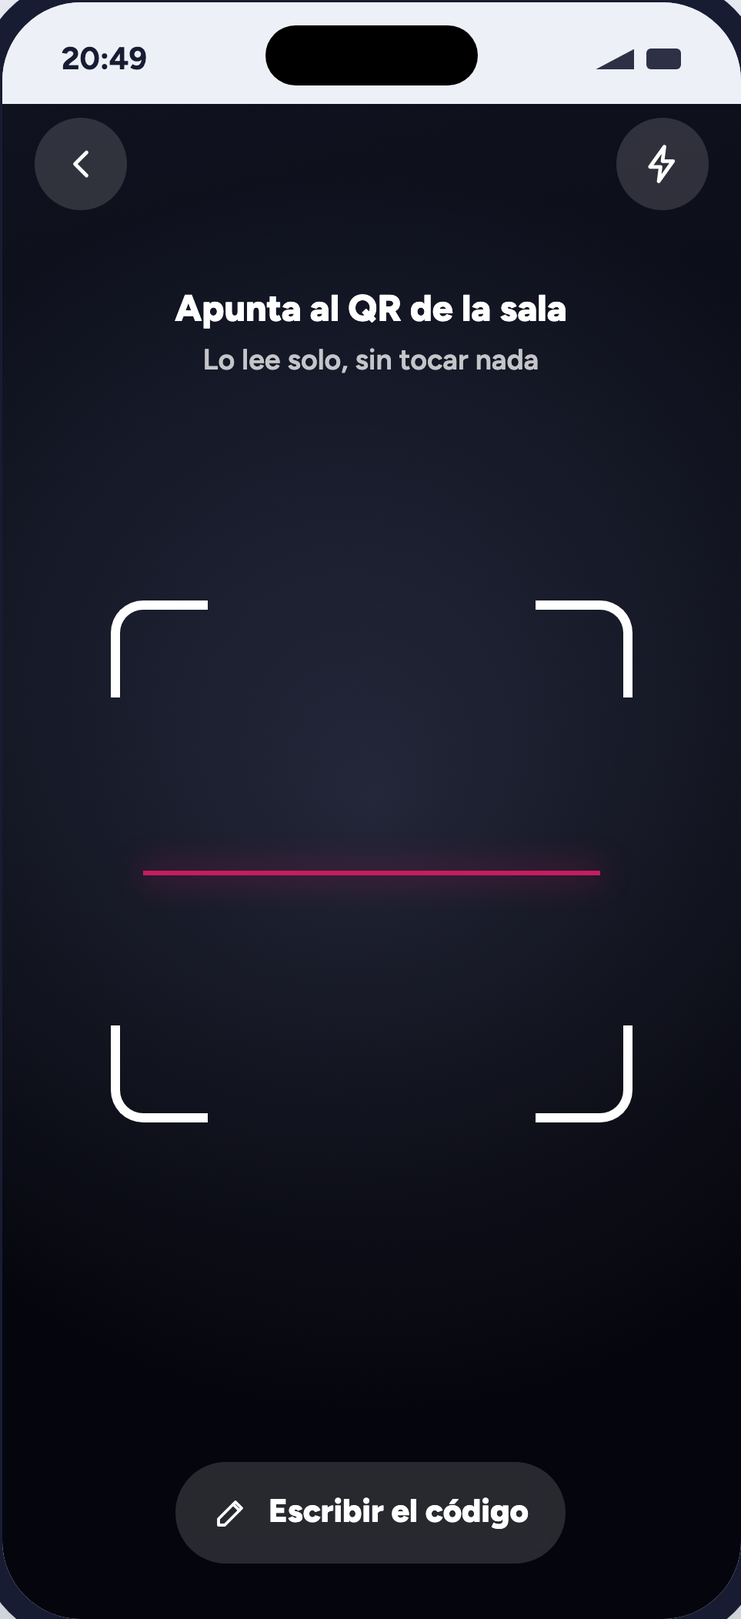
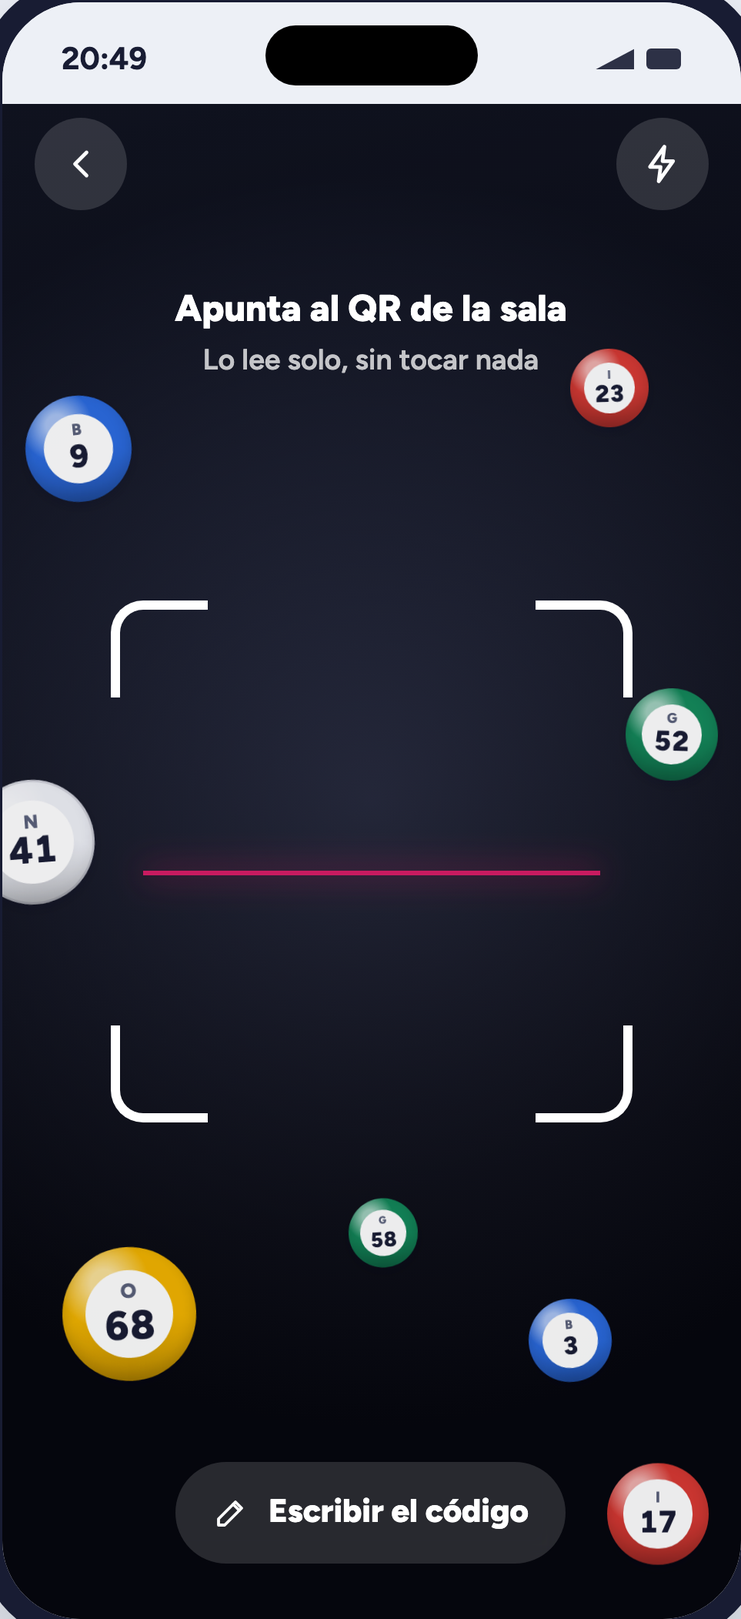
docs(diseno): premio editable con comisión y bolillas flotando al escanear
Nueva partida pasa a dos partes: visibilidad y, al desplazar, precio y premio con
la comisión de Bing Bing y lo que le queda a quien organiza. Las tarjetas de sala
muestran el premio. La pantalla de escanear lleva bolillas de bingo flotando.

diff --git a/tools/html_ref/bolilla-pantallas-nuevas.html b/tools/html_ref/bolilla-pantallas-nuevas.html
@@ -292,6 +292,7 @@ figcaption .fix{ font-size:12.5px; font-weight:700; color:var(--accent); }
 </defs></svg>
 <style>
 /* ---------- pantallas nuevas ---------- */
+.kvr{ display:flex; justify-content:space-between; align-items:center; font-size:13.5px; }
 .sala{ display:grid; gap:8px; background:var(--a-card); border-radius:16px; padding:12px 14px; }
 .sala .t{ display:flex; justify-content:space-between; align-items:flex-start; gap:8px; }
 .sala .t b{ font-weight:800; font-size:15px; display:block; }
@@ -316,6 +317,10 @@ figcaption .fix{ font-size:12.5px; font-weight:700; color:var(--accent); }
 .cam .frame i:nth-child(2){ right:0; top:0; border-left:0; border-bottom:0; border-radius:0 14px 0 0; }
 .cam .frame i:nth-child(3){ left:0; bottom:0; border-right:0; border-top:0; border-radius:0 0 0 14px; }
 .cam .frame i:nth-child(4){ right:0; bottom:0; border-left:0; border-top:0; border-radius:0 0 14px 0; }
+.fl{ position:absolute; z-index:1; opacity:.92; animation:flota 5.5s ease-in-out infinite alternate; }
+@keyframes flota{ from{ transform:translateY(0) rotate(-8deg); } to{ transform:translateY(-16px) rotate(9deg); } }
+@media (prefers-reduced-motion:reduce){ .fl{ animation:none; } }
+.cam .frame, .cam .hint, .cam .tools, .cam .top2{ z-index:2; }
 .cam .scan{ position:absolute; left:14px; right:14px; top:52%; height:2px; background:var(--dauber); box-shadow:0 0 14px var(--dauber); }
 .cam .hint{ position:absolute; top:78px; left:0; right:0; text-align:center; font-weight:800; font-size:16px; }
 .cam .hint small{ display:block; font-size:12.5px; font-weight:600; opacity:.75; margin-top:2px; }
@@ -390,18 +395,19 @@ figcaption .fix{ font-size:12.5px; font-weight:700; color:var(--accent); }
 <div><b>Compartir</b><small>QR, enlace y código</small><span class="who-o">ORGANIZADOR</span></div>
 </div>
 <div class="group-h"><span class="role j">PLAY</span><h2>Bing Bing Play</h2><p>Jugador · tema claro</p></div>
-<div class="screens"><figure id=jug-07-salas data-screen=jug-07-salas><div class="phone"><div class="app"><div class="sb"><span>20:48</span><span class="dots"><i></i><i></i></span></div><div class="body" style="gap:10px"><div class="top"><div><h2>Salas abiertas</h2><small>Entra a una y elige tu fila</small></div><span class="chip sp" style="margin-left:auto"><svg class="ic xs"><use href="#i-user"/></svg>Iniciar sesión</span></div><div class="finder"><div class="field"><svg class="ic "><use href="#i-pen"/></svg>Escribir el código</div><span class="qrb"><svg class="ic "><use href="#i-qr"/></svg></span></div><span class="lbl">ABIERTAS AHORA</span><div class="sala "><div class="t"><div><b>Bingo de los sábados</b><small>Organiza Carmen</small></div><span class="chip ok">Quedan 16</span></div><div class="tr"><i style="width:20%"></i></div><div class="m"><span>4 de 20 filas</span><span><b>5</b> créditos por fila</span></div></div><div class="sala "><div class="t"><div><b>Cumpleaños de Pilar</b><small>Organiza Renzo</small></div><span class="chip ok">Quedan 9</span></div><div class="tr"><i style="width:55%"></i></div><div class="m"><span>11 de 20 filas</span><span><b>3</b> créditos por fila</span></div></div><div class="sala "><div class="t"><div><b>Bingo familiar</b><small>Organiza Don Luis</small></div><span class="chip ok">Queda 1</span></div><div class="tr"><i style="width:95%"></i></div><div class="m"><span>19 de 20 filas</span><span><b>10</b> créditos por fila</span></div></div><div class="sala off"><div class="t"><div><b>Bingo del club</b><small>Organiza Marta</small></div><span class="chip off">Llena</span></div><div class="tr"><i style="width:100%"></i></div><div class="m"><span>20 de 20 filas</span><span><b>5</b> créditos por fila</span></div></div></div></div></div><figcaption><code class=sid>jug-07-salas</code><h3>Salas abiertas (sin sesión)</h3><p>Cualquiera ve las salas públicas, aunque no haya iniciado sesión. Escribir el código o escanear el QR sigue estando arriba, para las privadas.</p><span class=fix>Nuevo: pantalla de inicio de Play</span></figcaption></figure>
-<figure id=jug-07b-salas-con-sesion data-screen=jug-07b-salas-con-sesion><div class="phone"><div class="app"><div class="sb"><span>20:52</span><span class="dots"><i></i><i></i></span></div><div class="body" style="gap:10px"><div class="top"><div><h2>Salas abiertas</h2><small>Hola, Lucía</small></div><span class="chip money sp" style="margin-left:auto"><svg class="ic xs"><use href="#i-wallet"/></svg>25 créditos</span></div><div class="finder"><div class="field"><svg class="ic "><use href="#i-pen"/></svg>Escribir el código</div><span class="qrb"><svg class="ic "><use href="#i-qr"/></svg></span></div><span class="lbl">TUS SALAS</span><div class="sala mia"><div class="t"><div><b>Bingo de los sábados</b><small>Organiza Carmen</small></div><span class="chip me">Tu fila 5</span></div><div class="tr"><i style="width:100%"></i></div><div class="m"><span>20 de 20 filas</span><span><b>5</b> créditos por fila</span></div></div><span class="lbl">ABIERTAS AHORA</span><div class="sala "><div class="t"><div><b>Cumpleaños de Pilar</b><small>Organiza Renzo</small></div><span class="chip ok">Quedan 9</span></div><div class="tr"><i style="width:55%"></i></div><div class="m"><span>11 de 20 filas</span><span><b>3</b> créditos por fila</span></div></div><div class="sala "><div class="t"><div><b>Bingo familiar</b><small>Organiza Don Luis</small></div><span class="chip ok">Queda 1</span></div><div class="tr"><i style="width:95%"></i></div><div class="m"><span>19 de 20 filas</span><span><b>10</b> créditos por fila</span></div></div></div></div></div><figcaption><code class=sid>jug-07b-salas-con-sesion</code><h3>Salas abiertas (con sesión)</h3><p>Con sesión se ve el saldo arriba y, si ya reservaste fila en una sala, aparece marcada para volver a entrar.</p></figcaption></figure>
-<figure id=jug-08-escanear data-screen=jug-08-escanear><div class="phone"><div class="app"><div class="sb"><span>20:49</span><span class="dots"><i></i><i></i></span></div><div class="cam"><div class="top2"><span class="icb"><svg class="ic "><use href="#i-left"/></svg></span><span class="icb"><svg class="ic "><use href="#i-flash"/></svg></span></div><div class="hint">Apunta al QR de la sala<small>Lo lee solo, sin tocar nada</small></div><div class="frame"><i></i><i></i><i></i><i></i><span class="scan"></span></div><div class="tools"><span class="rb"><svg class="ic s"><use href="#i-pen"/></svg>Escribir el código</span></div></div></div></div><figcaption><code class=sid>jug-08-escanear</code><h3>Escanear el QR</h3><p>Cámara con marco, linterna y la salida de siempre: escribir el código. Al leer un QR válido pasa directo a la sala.</p></figcaption></figure>
+<div class="screens"><figure id=jug-07-salas data-screen=jug-07-salas><div class="phone"><div class="app"><div class="sb"><span>20:48</span><span class="dots"><i></i><i></i></span></div><div class="body" style="gap:10px"><div class="top"><div><h2>Salas abiertas</h2><small>Entra a una y elige tu fila</small></div><span class="chip sp" style="margin-left:auto"><svg class="ic xs"><use href="#i-user"/></svg>Iniciar sesión</span></div><div class="finder"><div class="field"><svg class="ic "><use href="#i-pen"/></svg>Escribir el código</div><span class="qrb"><svg class="ic "><use href="#i-qr"/></svg></span></div><span class="lbl">ABIERTAS AHORA</span><div class="sala "><div class="t"><div><b>Bingo de los sábados</b><small>Organiza Carmen</small></div><span class="chip ok">Quedan 16</span></div><div class="tr"><i style="width:20%"></i></div><div class="m"><span>4 de 20 filas</span><span><b>5</b> por fila · premio <b>80</b></span></div></div><div class="sala "><div class="t"><div><b>Cumpleaños de Pilar</b><small>Organiza Renzo</small></div><span class="chip ok">Quedan 9</span></div><div class="tr"><i style="width:55%"></i></div><div class="m"><span>11 de 20 filas</span><span><b>3</b> por fila · premio <b>50</b></span></div></div><div class="sala "><div class="t"><div><b>Bingo familiar</b><small>Organiza Don Luis</small></div><span class="chip ok">Queda 1</span></div><div class="tr"><i style="width:95%"></i></div><div class="m"><span>19 de 20 filas</span><span><b>10</b> por fila · premio <b>160</b></span></div></div><div class="sala off"><div class="t"><div><b>Bingo del club</b><small>Organiza Marta</small></div><span class="chip off">Llena</span></div><div class="tr"><i style="width:100%"></i></div><div class="m"><span>20 de 20 filas</span><span><b>5</b> por fila · premio <b>80</b></span></div></div></div></div></div><figcaption><code class=sid>jug-07-salas</code><h3>Salas abiertas (sin sesión)</h3><p>Cualquiera ve las salas públicas, aunque no haya iniciado sesión. Escribir el código o escanear el QR sigue estando arriba, para las privadas.</p><span class=fix>Nuevo: pantalla de inicio de Play</span></figcaption></figure>
+<figure id=jug-07b-salas-con-sesion data-screen=jug-07b-salas-con-sesion><div class="phone"><div class="app"><div class="sb"><span>20:52</span><span class="dots"><i></i><i></i></span></div><div class="body" style="gap:10px"><div class="top"><div><h2>Salas abiertas</h2><small>Hola, Lucía</small></div><span class="chip money sp" style="margin-left:auto"><svg class="ic xs"><use href="#i-wallet"/></svg>25 créditos</span></div><div class="finder"><div class="field"><svg class="ic "><use href="#i-pen"/></svg>Escribir el código</div><span class="qrb"><svg class="ic "><use href="#i-qr"/></svg></span></div><span class="lbl">TUS SALAS</span><div class="sala mia"><div class="t"><div><b>Bingo de los sábados</b><small>Organiza Carmen</small></div><span class="chip me">Tu fila 5</span></div><div class="tr"><i style="width:100%"></i></div><div class="m"><span>20 de 20 filas</span><span><b>5</b> por fila · premio <b>80</b></span></div></div><span class="lbl">ABIERTAS AHORA</span><div class="sala "><div class="t"><div><b>Cumpleaños de Pilar</b><small>Organiza Renzo</small></div><span class="chip ok">Quedan 9</span></div><div class="tr"><i style="width:55%"></i></div><div class="m"><span>11 de 20 filas</span><span><b>3</b> por fila · premio <b>50</b></span></div></div><div class="sala "><div class="t"><div><b>Bingo familiar</b><small>Organiza Don Luis</small></div><span class="chip ok">Queda 1</span></div><div class="tr"><i style="width:95%"></i></div><div class="m"><span>19 de 20 filas</span><span><b>10</b> por fila · premio <b>160</b></span></div></div></div></div></div><figcaption><code class=sid>jug-07b-salas-con-sesion</code><h3>Salas abiertas (con sesión)</h3><p>Con sesión se ve el saldo arriba y, si ya reservaste fila en una sala, aparece marcada para volver a entrar.</p></figcaption></figure>
+<figure id=jug-08-escanear data-screen=jug-08-escanear><div class="phone"><div class="app"><div class="sb"><span>20:49</span><span class="dots"><i></i><i></i></span></div><div class="cam"><span class="ball k-b fl" style="--s:46px;left:10px;top:128px;animation-delay:-0.0s" role="img" aria-label="B-9"><span class="face"><small>B</small>9</span></span><span class="ball k-i fl" style="--s:34px;left:246px;top:112px;animation-delay:-1.1s" role="img" aria-label="I-23"><span class="face"><small>I</small>23</span></span><span class="ball k-n fl" style="--s:54px;left:-14px;top:296px;animation-delay:-0.5s" role="img" aria-label="N-41"><span class="face"><small>N</small>41</span></span><span class="ball k-g fl" style="--s:40px;left:270px;top:262px;animation-delay:-1.7s" role="img" aria-label="G-52"><span class="face"><small>G</small>52</span></span><span class="ball k-o fl" style="--s:58px;left:26px;top:500px;animation-delay:-0.9s" role="img" aria-label="O-68"><span class="face"><small>O</small>68</span></span><span class="ball k-b fl" style="--s:36px;left:228px;top:520px;animation-delay:-0.3s" role="img" aria-label="B-3"><span class="face"><small>B</small>3</span></span><span class="ball k-i fl" style="--s:44px;left:262px;top:596px;animation-delay:-1.4s" role="img" aria-label="I-17"><span class="face"><small>I</small>17</span></span><span class="ball k-g fl" style="--s:30px;left:150px;top:478px;animation-delay:-0.7s" role="img" aria-label="G-58"><span class="face"><small>G</small>58</span></span><div class="top2"><span class="icb"><svg class="ic "><use href="#i-left"/></svg></span><span class="icb"><svg class="ic "><use href="#i-flash"/></svg></span></div><div class="hint">Apunta al QR de la sala<small>Lo lee solo, sin tocar nada</small></div><div class="frame"><i></i><i></i><i></i><i></i><span class="scan"></span></div><div class="tools"><span class="rb"><svg class="ic s"><use href="#i-pen"/></svg>Escribir el código</span></div></div></div></div><figcaption><code class=sid>jug-08-escanear</code><h3>Escanear el QR</h3><p>Cámara con marco, linterna y la salida de siempre: escribir el código. Al leer un QR válido pasa directo a la sala.</p></figcaption></figure>
 <figure id=jug-08b-camara-denegada data-screen=jug-08b-camara-denegada><div class="phone"><div class="app"><div class="sb"><span>20:49</span><span class="dots"><i></i><i></i></span></div><div class="body" style="gap:12px"><div class="top"><span class=icb><svg class="ic "><use href="#i-left"/></svg></span><div><h2>Escanear el QR</h2><small></small></div></div><div class="empty"><span class="big"><svg class="ic l"><use href="#i-camera"/></svg></span><h2>Necesitamos la cámara</h2><p>Solo la usamos para leer el QR de la sala. No guardamos fotos ni video.</p></div></div><div class="foot"><div class="btn ink">Abrir ajustes</div><div class="btn line"><svg class="ic "><use href="#i-pen"/></svg>Escribir el código</div></div></div></div><figcaption><code class=sid>jug-08b-camara-denegada</code><h3>Escanear: sin permiso de cámara</h3><p>Si la persona negó el permiso, se explica por qué se pide y se ofrece abrir Ajustes o escribir el código.</p></figcaption></figure>
 <figure id=jug-09-iniciar-sesion data-screen=jug-09-iniciar-sesion><div class="phone"><div class="app"><div class="sb"><span>20:50</span><span class="dots"><i></i><i></i></span></div><div class="body" style="gap:12px"><div class="top"><span class=icb><svg class="ic "><use href="#i-left"/></svg></span><div><h2>Elige tu fila</h2><small>Bingo de los sábados · puedes elegir 1</small></div></div><div class="picks"><div class="pick taken"><span class="idx">1</span><span class="pc">4</span><span class="pc">17</span><span class="pc">32</span><span class="pc">56</span><span class="pc">72</span><span class="st"><svg class="ic xs"><use href="#i-lock"/></svg> Jugador 1</span></div><div class="pick taken"><span class="idx">2</span><span class="pc">13</span><span class="pc">22</span><span class="pc">31</span><span class="pc">50</span><span class="pc">65</span><span class="st"><svg class="ic xs"><use href="#i-lock"/></svg> Jugador 2</span></div><div class="pick taken"><span class="idx">3</span><span class="pc">3</span><span class="pc">28</span><span class="pc">42</span><span class="pc">52</span><span class="pc">65</span><span class="st"><svg class="ic xs"><use href="#i-lock"/></svg> Jugador 3</span></div><div class="pick taken"><span class="idx">4</span><span class="pc">2</span><span class="pc">30</span><span class="pc">33</span><span class="pc">47</span><span class="pc">62</span><span class="st"><svg class="ic xs"><use href="#i-lock"/></svg> Jugador 4</span></div><div class="pick sel"><span class="idx">5</span><span class="pc">3</span><span class="pc">20</span><span class="pc">43</span><span class="pc">59</span><span class="pc">69</span><span class="st">Elegida</span></div><div class="pick "><span class="idx">6</span><span class="pc">4</span><span class="pc">25</span><span class="pc">37</span><span class="pc">54</span><span class="pc">68</span><span class="st">Libre</span></div></div></div><div class="foot"><div class="btn ink">Seguir con la fila 5</div><small>Las filas con candado ya tienen dueño</small></div><div class="modal"><div class="sheet left"><span class="grab"></span><h3>Inicia sesión para jugar</h3><p>Puedes mirar la sala sin cuenta. Para elegir una fila necesitas iniciar sesión y tener saldo en tu billetera.</p><div class="acts"><div class="btn ink"><svg class="ic "><use href="#i-mail"/></svg>Continuar con Google</div><div class="btn line"><svg class="ic "><use href="#i-phone"/></svg>Continuar con celular</div></div><small style="text-align:center;color:var(--a-muted);font-weight:700;font-size:13px">Ahora no</small></div></div></div></div><figcaption><code class=sid>jug-09-iniciar-sesion</code><h3>Elegir fila sin sesión</h3><p>Mirar la sala es libre. Al tocar "Seguir con la fila", si no hay sesión sube esta hoja: sin cuenta con saldo no se puede jugar.</p><span class=fix>Nuevo: hoja de inicio de sesión</span></figcaption></figure>
-<figure id=jug-10-sin-saldo data-screen=jug-10-sin-saldo><div class="phone"><div class="app"><div class="sb"><span>20:51</span><span class="dots"><i></i><i></i></span></div><div class="body" style="gap:10px"><div class="top"><span class=icb><svg class="ic "><use href="#i-left"/></svg></span><div><h2>Elige tu fila</h2><small>Bingo de los sábados · 5 créditos por fila</small></div></div><div class="warn"><svg class="ic "><use href="#i-wallet"/></svg><span><b>Tu saldo es 0 créditos.</b> Cada fila cuesta 5. Recarga para poder elegir.</span></div><div class="picks" style="opacity:.55"><div class="pick "><span class="idx">5</span><span class="pc">3</span><span class="pc">20</span><span class="pc">43</span><span class="pc">59</span><span class="pc">69</span><span class="st">Libre</span></div><div class="pick "><span class="idx">6</span><span class="pc">4</span><span class="pc">25</span><span class="pc">37</span><span class="pc">54</span><span class="pc">68</span><span class="st">Libre</span></div><div class="pick "><span class="idx">7</span><span class="pc">8</span><span class="pc">20</span><span class="pc">43</span><span class="pc">60</span><span class="pc">69</span><span class="st">Libre</span></div><div class="pick "><span class="idx">8</span><span class="pc">9</span><span class="pc">18</span><span class="pc">45</span><span class="pc">49</span><span class="pc">64</span><span class="st">Libre</span></div><div class="pick "><span class="idx">9</span><span class="pc">14</span><span class="pc">27</span><span class="pc">40</span><span class="pc">47</span><span class="pc">67</span><span class="st">Libre</span></div></div></div><div class="foot"><div class="btn dau"><svg class="ic "><use href="#i-wallet"/></svg>Recargar créditos</div><small>Con saldo podrás elegir tu fila</small></div></div></div><figcaption><code class=sid>jug-10-sin-saldo</code><h3>Elegir fila sin saldo</h3><p>Con sesión pero sin saldo suficiente las filas se ven, pero no se pueden elegir. La comprobación se repite en el servidor.</p><span class=fix>Nuevo: bloqueo por saldo</span></figcaption></figure>
+<figure id=jug-10-sin-saldo data-screen=jug-10-sin-saldo><div class="phone"><div class="app"><div class="sb"><span>20:51</span><span class="dots"><i></i><i></i></span></div><div class="body" style="gap:10px"><div class="top"><span class=icb><svg class="ic "><use href="#i-left"/></svg></span><div><h2>Elige tu fila</h2><small>Bingo de los sábados · 5 por fila · premio 80</small></div></div><div class="warn"><svg class="ic "><use href="#i-wallet"/></svg><span><b>Tu saldo es 0 créditos.</b> Cada fila cuesta 5 créditos. Recarga para poder elegir.</span></div><div class="picks" style="opacity:.55"><div class="pick "><span class="idx">5</span><span class="pc">3</span><span class="pc">20</span><span class="pc">43</span><span class="pc">59</span><span class="pc">69</span><span class="st">Libre</span></div><div class="pick "><span class="idx">6</span><span class="pc">4</span><span class="pc">25</span><span class="pc">37</span><span class="pc">54</span><span class="pc">68</span><span class="st">Libre</span></div><div class="pick "><span class="idx">7</span><span class="pc">8</span><span class="pc">20</span><span class="pc">43</span><span class="pc">60</span><span class="pc">69</span><span class="st">Libre</span></div><div class="pick "><span class="idx">8</span><span class="pc">9</span><span class="pc">18</span><span class="pc">45</span><span class="pc">49</span><span class="pc">64</span><span class="st">Libre</span></div><div class="pick "><span class="idx">9</span><span class="pc">14</span><span class="pc">27</span><span class="pc">40</span><span class="pc">47</span><span class="pc">67</span><span class="st">Libre</span></div></div></div><div class="foot"><div class="btn dau"><svg class="ic "><use href="#i-wallet"/></svg>Recargar créditos</div><small>Con saldo podrás elegir tu fila</small></div></div></div><figcaption><code class=sid>jug-10-sin-saldo</code><h3>Elegir fila sin saldo</h3><p>Con sesión pero sin saldo suficiente las filas se ven, pero no se pueden elegir. La comprobación se repite en el servidor.</p><span class=fix>Nuevo: bloqueo por saldo</span></figcaption></figure>
 <figure id=jug-11-billetera data-screen=jug-11-billetera><div class="phone"><div class="app"><div class="sb"><span>20:53</span><span class="dots"><i></i><i></i></span></div><div class="body" style="gap:12px"><div class="top"><span class=icb><svg class="ic "><use href="#i-left"/></svg></span><div><h2>Mi billetera</h2><small>Créditos de prueba</small></div></div><div class="wallet"><span class="lbl" style="padding:0">SALDO</span><div class="v"><b>25</b><span>créditos</span></div><span class="chip money" style="justify-self:start">De prueba · sin valor en dinero</span></div><div class="btn dau"><svg class="ic "><use href="#i-plus"/></svg>Recargar</div><span class="lbl">MOVIMIENTOS</span><div class="plist" style="padding:2px 12px"><div class="mov"><span class="mi"><svg class="ic s"><use href="#i-plus"/></svg></span><div><b>Recarga</b><small>Hoy 20:45</small></div><span class="amt pos">+30</span></div><div class="mov"><span class="mi"><svg class="ic s"><use href="#i-grid"/></svg></span><div><b>Fila 5 · Bingo de los sábados</b><small>Hoy 20:46</small></div><span class="amt">−5</span></div><div class="mov"><span class="mi"><svg class="ic s"><use href="#i-trophy"/></svg></span><div><b>Premio · Cumpleaños de Pilar</b><small>19 set</small></div><span class="amt pos">+60</span></div><div class="mov"><span class="mi"><svg class="ic s"><use href="#i-grid"/></svg></span><div><b>Fila 12 · Cumpleaños de Pilar</b><small>19 set</small></div><span class="amt">−3</span></div></div></div></div></div><figcaption><code class=sid>jug-11-billetera</code><h3>Mi billetera</h3><p>Saldo en créditos de prueba (sin valor en dinero, no se retiran) y el historial de movimientos.</p><span class=fix>Nuevo: billetera</span></figcaption></figure>
 <figure id=jug-12-recargar data-screen=jug-12-recargar><div class="phone"><div class="app"><div class="sb"><span>20:53</span><span class="dots"><i></i><i></i></span></div><div class="body" style="gap:12px"><div class="top"><span class=icb><svg class="ic "><use href="#i-left"/></svg></span><div><h2>Mi billetera</h2><small>Créditos de prueba</small></div></div><div class="wallet"><span class="lbl" style="padding:0">SALDO</span><div class="v"><b>25</b><span>créditos</span></div></div></div><div class="modal"><div class="sheet left"><span class="grab"></span><h3>Recargar créditos</h3><div class="amounts"><span>10</span><span class="on">20</span><span>50</span><span>100</span></div><p>Recibirás <b style="color:var(--a-ink)">20 créditos de prueba</b>. No tienen valor en dinero.</p><div class="btn dau">Agregar 20 créditos</div></div></div></div></div><figcaption><code class=sid>jug-12-recargar</code><h3>Recargar créditos</h3><p>Hoja de recarga con montos fijos. En esta etapa los créditos son de prueba y se agregan al instante, sin cobro.</p></figcaption></figure>
 <figure id=jug-13-cuenta data-screen=jug-13-cuenta><div class="phone"><div class="app"><div class="sb"><span>20:54</span><span class="dots"><i></i><i></i></span></div><div class="body" style="gap:10px"><div class="top"><span class=icb><svg class="ic "><use href="#i-left"/></svg></span><div><h2>Mi cuenta</h2><small></small></div></div><div class="who2"><span class="avatar">L</span><b>Lucía Torres</b><small>lucia@correo.com</small></div><div class="sec"><span class="h">INICIO DE SESIÓN</span><div class="kv"><svg class="ic s"><use href="#i-mail"/></svg><div>Google<small>lucia@correo.com</small></div><span class="chip ok"><svg class="ic xs"><use href="#i-check"/></svg>Vinculado</span></div><div class="kv"><svg class="ic s"><use href="#i-phone"/></svg><div>Celular<small>Para entrar con un código SMS</small></div><span class="chip">Agregar</span></div></div><div class="sec"><div class="kv"><svg class="ic s"><use href="#i-wallet"/></svg><div>Billetera<small>25 créditos de prueba</small></div><svg class="ic s"><use href="#i-right"/></svg></div></div><div class="btn line">Cerrar sesión</div><div class="danger">Eliminar mi cuenta</div></div></div></div><figcaption><code class=sid>jug-13-cuenta</code><h3>Mi cuenta</h3><p>Datos de la cuenta, métodos de inicio de sesión vinculados, acceso a la billetera y las acciones de cuenta (borrarla es obligatorio en las tiendas).</p><span class=fix>Nuevo: cuenta</span></figcaption></figure>
 </div>
 <div class="group-h"><span class="role o">HOST</span><h2>Bing Bing Host</h2><p>Organizador · tema oscuro</p></div>
-<div class="screens"><figure id=org-10-nueva-partida-v2 data-screen=org-10-nueva-partida-v2><div class="phone"><div class="app  dark"><div class="sb"><span>20:43</span><span class="dots"><i></i><i></i></span></div><div class="body" style="gap:9px"><div class="top"><span class=icb><svg class="ic "><use href="#i-left"/></svg></span><div><h2>Nueva partida</h2><small>Puedes cambiarlo antes de abrir la sala</small></div></div><div class="sec"><span class="h">NOMBRE</span><div class="field" style="color:var(--a-ink);font-weight:700">Bingo de los sábados</div></div><div class="sec"><span class="h">VISIBILIDAD</span><div class="seg"><span class="on">Pública</span><span>Privada</span></div><small style="font-size:12px;color:var(--a-muted);font-weight:600">Pública: la ve cualquiera en Play. Privada: solo con código, enlace o QR.</small></div><div class="sec"><span class="h">PRECIO Y PREMIO</span><div style="display:flex;justify-content:space-between;align-items:center"><span style="font-size:13.5px;font-weight:700">Precio por fila</span><span class="stepper"><i><svg class="ic s"><use href="#i-minus"/></svg></i><b>5</b><i><svg class="ic s"><use href="#i-plus"/></svg></i></span></div><div style="display:flex;justify-content:space-between;align-items:center;border-top:1px solid var(--a-line);padding-top:9px"><span style="font-size:13.5px;font-weight:700;display:flex;align-items:center;gap:8px"><svg class="ic s"><use href="#i-trophy"/></svg>Premio <small style="font-size:12px;color:var(--a-muted);font-weight:700">20 × 5</small></span><span style="font-family:var(--display);font-size:17px">100 créditos</span></div></div><div class="sec"><span class="h">COLUMNAS POR FILA</span><div class="seg"><span class="on">5 · 75 bolillas</span><span>6 · 90 bolillas</span></div></div></div><div class="foot"><div class="btn dau">Abrir sala</div></div></div></div><figcaption><code class=sid>org-10-nueva-partida-v2</code><h3>Nueva partida: visibilidad y precio</h3><p>Se agregan quién puede ver la sala y cuánto cuesta cada fila. El premio es lo que se recauda de las 20 filas.</p><span class=fix>Reemplaza el bloque "Partida con premio · Pronto"</span></figcaption></figure>
+<div class="screens"><figure id=org-10-nueva-partida-v2 data-screen=org-10-nueva-partida-v2><div class="phone"><div class="app  dark"><div class="sb"><span>20:43</span><span class="dots"><i></i><i></i></span></div><div class="body" style="gap:10px"><div class="top"><span class=icb><svg class="ic "><use href="#i-left"/></svg></span><div><h2>Nueva partida</h2><small>Puedes cambiarlo antes de abrir la sala</small></div></div><div class="sec"><span class="h">NOMBRE</span><div class="field" style="color:var(--a-ink);font-weight:700">Bingo de los sábados</div></div><div class="sec"><span class="h">VISIBILIDAD</span><div class="seg"><span class="on">Pública</span><span>Privada</span></div><small style="font-size:12px;color:var(--a-muted);font-weight:600">Pública: la ve cualquiera en Play. Privada: solo con código, enlace o QR.</small></div><div class="sec"><span class="h">COLUMNAS POR FILA</span><div class="seg"><span class="on">5 · 75 bolillas</span><span>6 · 90 bolillas</span></div></div><div class="sec"><span class="h">FILAS POR JUGADOR</span><div class="seg"><span class="on">1 fila</span><span>Hasta 3</span></div></div></div><div class="foot"><div class="btn dau">Abrir sala</div></div></div></div><figcaption><code class=sid>org-10-nueva-partida-v2</code><h3>Nueva partida: visibilidad</h3><p>Se agrega quién puede ver la sala. Pública: la ve cualquiera en Play. Privada: solo con código, enlace o QR. La pantalla sigue hacia abajo con el precio y el premio.</p><span class=fix>Parte 1 de 2 (la pantalla se desplaza)</span></figcaption></figure>
+<figure id=org-10b-precio-premio data-screen=org-10b-precio-premio><div class="phone"><div class="app  dark"><div class="sb"><span>20:43</span><span class="dots"><i></i><i></i></span></div><div class="body" style="gap:9px"><div class="top"><span class=icb><svg class="ic "><use href="#i-left"/></svg></span><div><h2>Nueva partida</h2><small>Precio y premio</small></div></div><div class="sec"><span class="h">PRECIO POR FILA</span><div style="display:flex;justify-content:space-between;align-items:center"><span style="font-size:13.5px;font-weight:700">Créditos por fila</span><span class="stepper"><i><svg class="ic s"><use href="#i-minus"/></svg></i><b>5</b><i><svg class="ic s"><use href="#i-plus"/></svg></i></span></div></div><div class="sec"><span class="h">SI SE LLENAN LAS 20 FILAS</span><div class="kvr" style="font-weight:700;font-size:13.5px"><span>Recaudado</span><span>100</span></div><div class="kvr" style="font-weight:700;font-size:13.5px;color:var(--a-muted)"><span>Comisión de Bing Bing · 10 %</span><span>−10</span></div><div class="kvr" style="font-weight:800;font-size:14px;border-top:1px solid var(--a-line);padding-top:8px"><span>Disponible para premio</span><span>90</span></div></div><div class="sec"><span class="h">PREMIO</span><div style="display:flex;justify-content:space-between;align-items:center"><span style="font-size:13.5px;font-weight:700;display:flex;align-items:center;gap:8px"><svg class="ic s"><use href="#i-trophy"/></svg>Premio</span><span class="stepper"><i><svg class="ic s"><use href="#i-minus"/></svg></i><b>80</b><i><svg class="ic s"><use href="#i-plus"/></svg></i></span></div><small style="font-size:12px;color:var(--a-muted);font-weight:600">Puedes subirlo o bajarlo; no puede pasar de 90.</small><div class="kvr" style="font-weight:800;font-size:14px;border-top:1px solid var(--a-line);padding-top:8px"><span>Te quedan</span><span style="font-family:var(--display);font-weight:400;font-size:18px">10 créditos</span></div></div><div class="warn"><svg class="ic "><use href="#i-bell"/></svg><span>Si no se llenan las 20 filas, el premio sigue igual y se paga con lo recaudado.</span></div></div><div class="foot"><div class="btn dau">Abrir sala</div></div></div></div><figcaption><code class=sid>org-10b-precio-premio</code><h3>Nueva partida: precio y premio</h3><p>Quien organiza fija el precio por fila y el premio. Bing Bing retiene un porcentaje de lo recaudado y el premio no puede pasar de lo que queda. Lo que sobra es para quien organiza.</p><span class=fix>Parte 2 de 2 · reemplaza "Partida con premio · Pronto"</span></figcaption></figure>
 <figure id=org-11-compartir data-screen=org-11-compartir><div class="phone"><div class="app  dark"><div class="sb"><span>20:44</span><span class="dots"><i></i><i></i></span></div><div class="body" style="gap:12px"><div class="top"><span class=icb><svg class="ic "><use href="#i-left"/></svg></span><div><h2>Comparte tu sala</h2><small>Bingo de los sábados</small></div><span class="chip sp" style="margin-left:auto"><svg class="ic xs"><use href="#i-globe"/></svg>Pública</span></div><div class="qrcard"><span class="qrw"><svg xmlns="http://www.w3.org/2000/svg" viewBox="0 0 25 25" class="qr"><path class="qrline" stroke="#181c33" d="M0 0.5h7m2 0h1m1 0h1m1 0h1m1 0h1m2 0h7m-25 1h1m5 0h1m2 0h1m1 0h2m3 0h1m1 0h1m5 0h1m-25 1h1m1 0h3m1 0h1m3 0h4m4 0h1m1 0h3m1 0h1m-25 1h1m1 0h3m1 0h1m1 0h3m1 0h2m2 0h1m1 0h1m1 0h3m1 0h1m-25 1h1m1 0h3m1 0h1m2 0h1m3 0h1m2 0h1m1 0h1m1 0h3m1 0h1m-25 1h1m5 0h1m1 0h1m5 0h1m1 0h1m1 0h1m5 0h1m-25 1h7m1 0h1m1 0h1m1 0h1m1 0h1m1 0h1m1 0h7m-17 1h2m1 0h2m2 0h1m-15 1h2m3 0h1m3 0h5m1 0h1m1 0h2m1 0h1m-22 1h2m2 0h1m4 0h1m1 0h1m4 0h1m1 0h1m2 0h2m1 0h1m-25 1h2m4 0h5m2 0h3m5 0h2m1 0h1m-25 1h2m1 0h2m2 0h1m1 0h1m1 0h1m3 0h7m1 0h2m-24 1h3m1 0h6m1 0h3m1 0h1m1 0h2m1 0h1m-21 1h2m1 0h2m3 0h1m2 0h1m2 0h1m1 0h2m3 0h1m1 0h1m-25 1h3m1 0h1m1 0h2m2 0h1m3 0h2m1 0h3m2 0h1m1 0h1m-22 1h3m1 0h2m1 0h5m2 0h2m1 0h2m2 0h1m-25 1h2m4 0h1m2 0h2m3 0h8m1 0h2m-17 1h1m1 0h3m1 0h1m1 0h1m3 0h3m1 0h1m-25 1h7m2 0h2m1 0h3m1 0h1m1 0h1m1 0h3m1 0h1m-25 1h1m5 0h1m4 0h1m3 0h2m3 0h2m1 0h2m-25 1h1m1 0h3m1 0h1m2 0h2m2 0h9m1 0h2m-25 1h1m1 0h3m1 0h1m2 0h3m2 0h1m2 0h1m1 0h5m-24 1h1m1 0h3m1 0h1m1 0h2m1 0h1m2 0h1m2 0h1m1 0h6m-25 1h1m5 0h1m1 0h1m2 0h2m3 0h1m2 0h1m1 0h1m-22 1h7m3 0h3m3 0h1m1 0h4m2 0h1"/></svg></span><b>K7Q4</b><small>Escanéalo con Bing Bing Play</small></div><div class="linkf"><svg class="ic s"><use href="#i-link"/></svg><span>bingbing-f1491.web.app/sala/K7Q4</span><svg class="ic s"><use href="#i-copy"/></svg></div></div><div class="foot"><div class="btn dau"><svg class="ic "><use href="#i-share"/></svg>Compartir</div><div class="btn line"><svg class="ic "><use href="#i-qr"/></svg>Mostrar QR a pantalla completa</div></div></div></div><figcaption><code class=sid>org-11-compartir</code><h3>Compartir la sala</h3><p>Al abrir la sala: QR, código y enlace para pasarlos por WhatsApp o donde sea. El botón de compartir abre el menú del sistema.</p><span class=fix>Nuevo: hoja de compartir</span></figcaption></figure>
 <figure id=org-12-qr-pantalla data-screen=org-12-qr-pantalla><div class="phone"><div class="app  dark"><div class="sb"><span>20:44</span><span class="dots"><i></i><i></i></span></div><div class="body" style="gap:12px"><div class="top"><div><h2>Escanea para entrar</h2><small></small></div><span class="icb sp" style="margin-left:auto"><svg class="ic "><use href="#i-close"/></svg></span></div><div class="full"><div class="qrcard"><span class="qrw"><svg xmlns="http://www.w3.org/2000/svg" viewBox="0 0 25 25" class="qr"><path class="qrline" stroke="#181c33" d="M0 0.5h7m2 0h1m1 0h1m1 0h1m1 0h1m2 0h7m-25 1h1m5 0h1m2 0h1m1 0h2m3 0h1m1 0h1m5 0h1m-25 1h1m1 0h3m1 0h1m3 0h4m4 0h1m1 0h3m1 0h1m-25 1h1m1 0h3m1 0h1m1 0h3m1 0h2m2 0h1m1 0h1m1 0h3m1 0h1m-25 1h1m1 0h3m1 0h1m2 0h1m3 0h1m2 0h1m1 0h1m1 0h3m1 0h1m-25 1h1m5 0h1m1 0h1m5 0h1m1 0h1m1 0h1m5 0h1m-25 1h7m1 0h1m1 0h1m1 0h1m1 0h1m1 0h1m1 0h7m-17 1h2m1 0h2m2 0h1m-15 1h2m3 0h1m3 0h5m1 0h1m1 0h2m1 0h1m-22 1h2m2 0h1m4 0h1m1 0h1m4 0h1m1 0h1m2 0h2m1 0h1m-25 1h2m4 0h5m2 0h3m5 0h2m1 0h1m-25 1h2m1 0h2m2 0h1m1 0h1m1 0h1m3 0h7m1 0h2m-24 1h3m1 0h6m1 0h3m1 0h1m1 0h2m1 0h1m-21 1h2m1 0h2m3 0h1m2 0h1m2 0h1m1 0h2m3 0h1m1 0h1m-25 1h3m1 0h1m1 0h2m2 0h1m3 0h2m1 0h3m2 0h1m1 0h1m-22 1h3m1 0h2m1 0h5m2 0h2m1 0h2m2 0h1m-25 1h2m4 0h1m2 0h2m3 0h8m1 0h2m-17 1h1m1 0h3m1 0h1m1 0h1m3 0h3m1 0h1m-25 1h7m2 0h2m1 0h3m1 0h1m1 0h1m1 0h3m1 0h1m-25 1h1m5 0h1m4 0h1m3 0h2m3 0h2m1 0h2m-25 1h1m1 0h3m1 0h1m2 0h2m2 0h9m1 0h2m-25 1h1m1 0h3m1 0h1m2 0h3m2 0h1m2 0h1m1 0h5m-24 1h1m1 0h3m1 0h1m1 0h2m1 0h1m2 0h1m2 0h1m1 0h6m-25 1h1m5 0h1m1 0h1m2 0h2m3 0h1m2 0h1m1 0h1m-22 1h7m3 0h3m3 0h1m1 0h4m2 0h1"/></svg></span><b>K7Q4</b></div><h2>Abre Bing Bing Play y escanea,<br>o escribe el código</h2></div></div></div></div><figcaption><code class=sid>org-12-qr-pantalla</code><h3>QR a pantalla completa</h3><p>Para proyectarlo o mostrarlo en la reunión: QR lo más grande posible, el código en letras grandes y la pantalla siempre encendida.</p><span class=fix>Nuevo: QR grande</span></figcaption></figure>
 </div>
